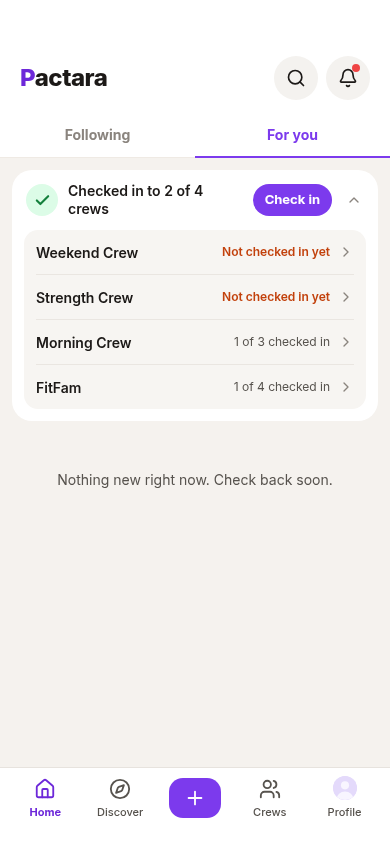
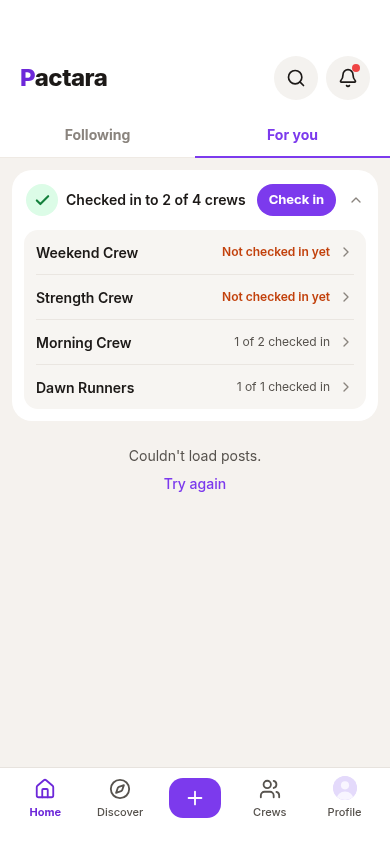
Keep the Today slim line on one line at 390px

diff --git a/src/components/redesign/NewTodayCard.tsx b/src/components/redesign/NewTodayCard.tsx
@@ -130,17 +130,17 @@ export function NewTodayCard({
         <button
           type="button"
           onClick={() => opensCrew ? onOpenCrew(first.id) : setOpen((value) => !value)}
-          className="flex min-w-0 flex-1 items-center gap-2.5 text-left"
+          className="flex min-w-0 flex-1 items-center gap-2 text-left"
           aria-expanded={expandable ? open : undefined}
         >
           <span className="flex h-8 w-8 shrink-0 items-center justify-center rounded-full" style={{ background: iconBackground }}>{icon}</span>
-          <span className="min-w-0 flex-1 text-[14px] font-semibold leading-[1.3]">{line}</span>
+          <span className="min-w-0 flex-1 truncate text-[14px] font-semibold leading-[1.3]">{line}</span>
           {!pill && expandable && (open ? <ChevronUp size={16} color={CHEVRON} /> : <ChevronDown size={16} color={CHEVRON} />)}
           {single && <ChevronRight size={16} color={CHEVRON} />}
         </button>
         {pill && checkInButton(true)}
         {pill && (
-          <button type="button" aria-label={open ? "Hide crews" : "Show crews"} aria-expanded={open} onClick={() => setOpen((value) => !value)} className="-mr-1 flex h-8 w-7 shrink-0 items-center justify-center">
+          <button type="button" aria-label={open ? "Hide crews" : "Show crews"} aria-expanded={open} onClick={() => setOpen((value) => !value)} className="-mr-1 flex h-8 w-6 shrink-0 items-center justify-center">
             {open ? <ChevronUp size={16} color={CHEVRON} /> : <ChevronDown size={16} color={CHEVRON} />}
           </button>
         )}
